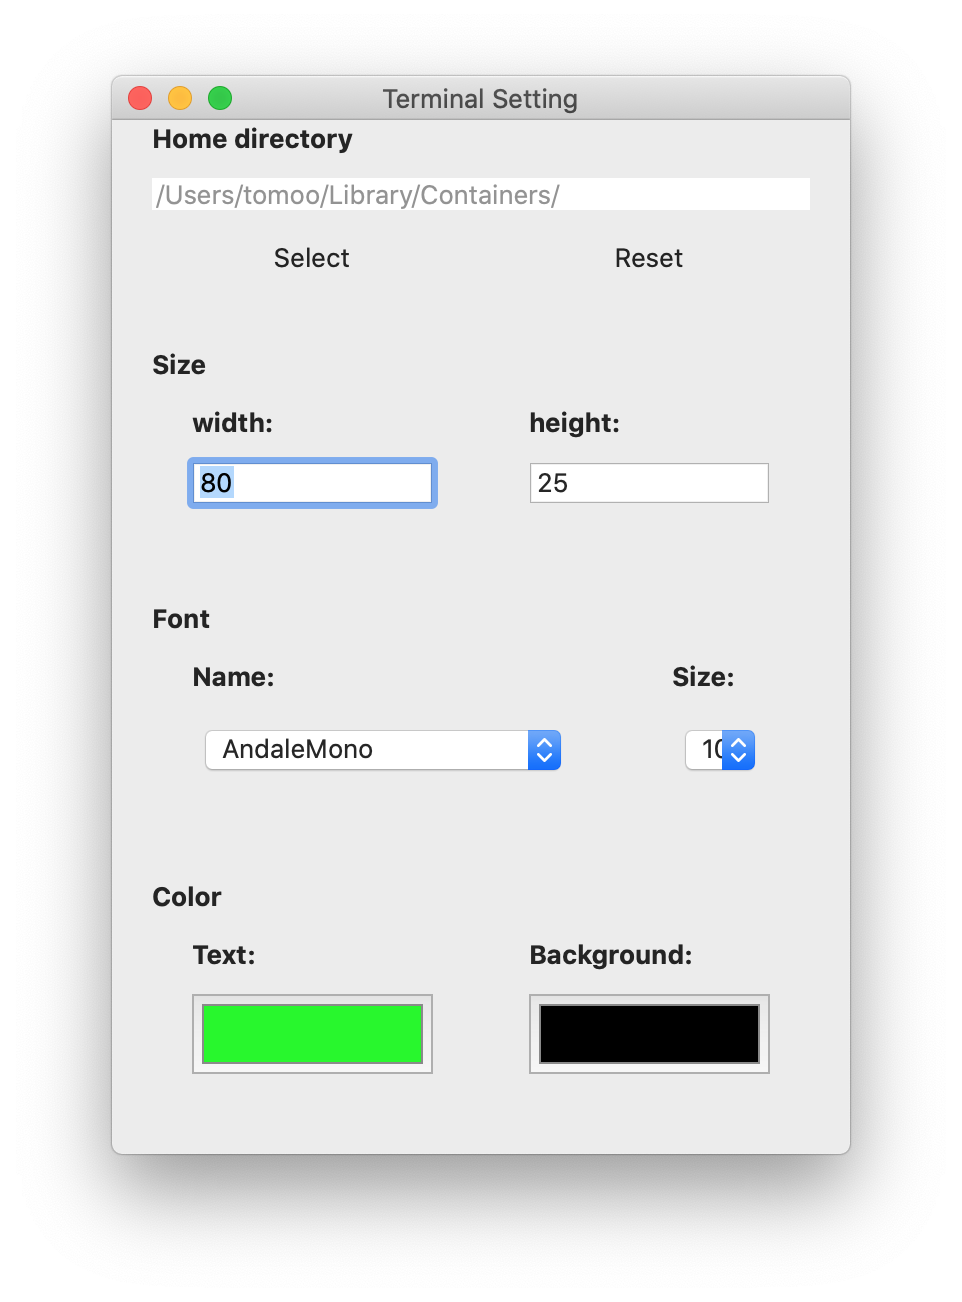
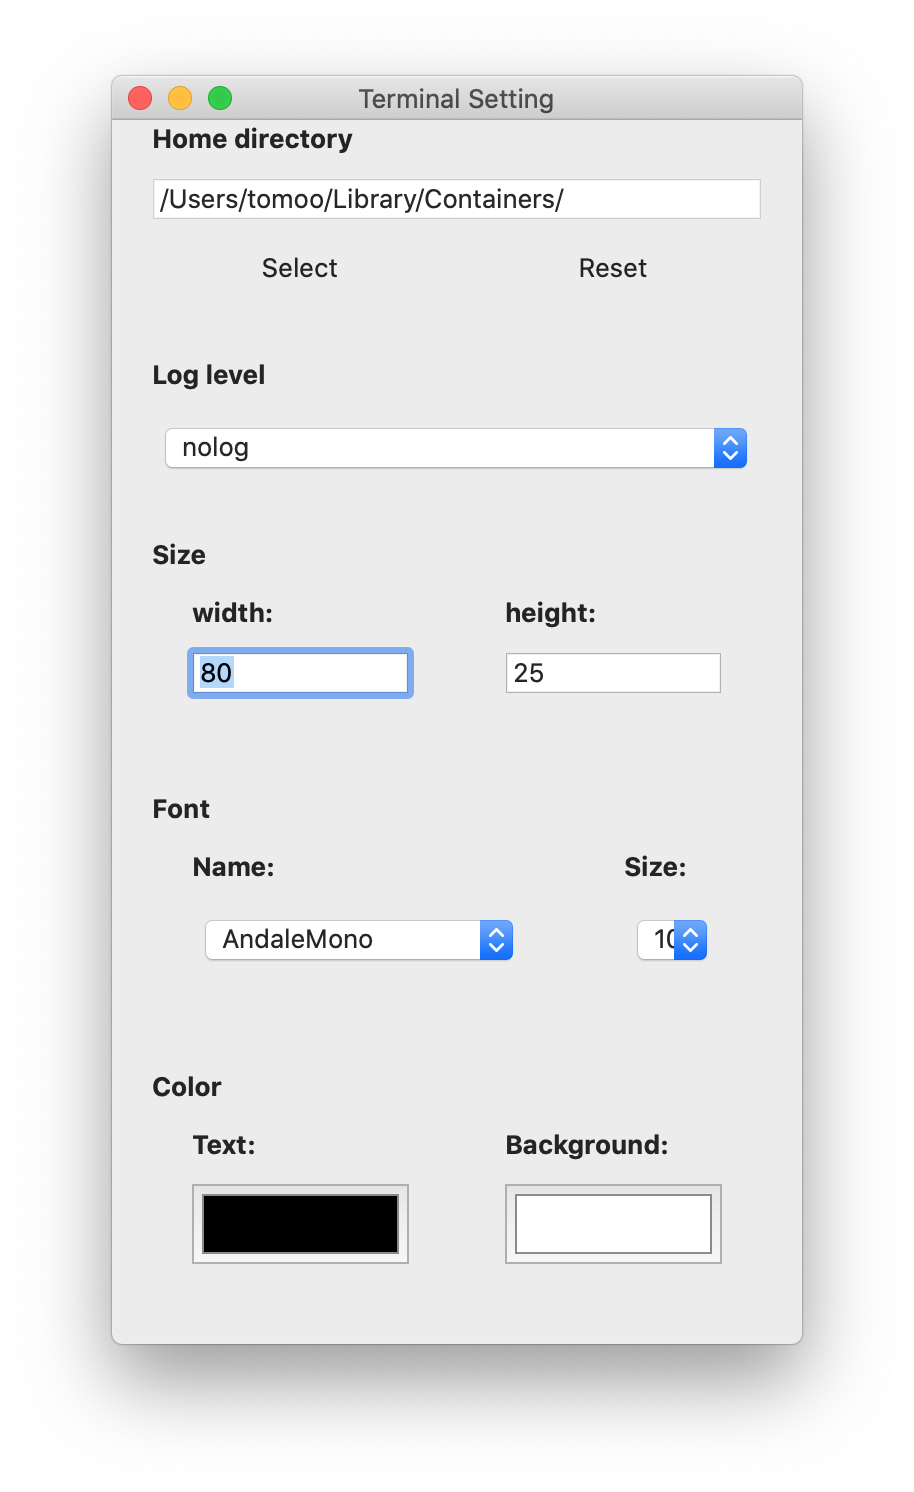
doc: Add screen shot of preference window

diff --git a/Source/AppDelegate.swift b/Source/AppDelegate.swift
@@ -36,7 +36,7 @@ class AppDelegate: KCApplicationDelegate
 import UIKit
 
 @UIApplicationMain
-class AppDelegate: CNApplicationDelegate
+class AppDelegate: KCApplicationDelegate
 {
 	func application(_ application: UIApplication, didFinishLaunchingWithOptions launchOptions: [UIApplication.LaunchOptionsKey: Any]?) -> Bool {
 		// Override point for customization after application launch.

diff --git a/Resource/Sample/loglevel.js b/Resource/Sample/loglevel.js
@@ -1,0 +1,7 @@
+
+function main(args)
+{
+	console.printf("Set logLevel to \"detail\"\n") ;
+	Preference.system.logLevel = LogLevel.detail ;
+}
+

diff --git a/Documents/UsersManual.md b/Documents/UsersManual.md
@@ -18,6 +18,8 @@ In the following section, this document describes:
 * [Licence](#License): The license information
 * [How to use](#How): Step by step examination of the introduction to use this software
 * [Programming](#Programming): Documents for programming
+* [Debugging](#Debugging): How to debug on this terminal.
+* [Misc](#Misc): Miscellaneous information such as desktop menu
 * [Bug and restrictions](#Bug): Known problems
 * [Related documents](#Related): Links for references
 
@@ -189,11 +191,16 @@ end tell
 ````
 There are more sample scripts in [sample AppleScript scripts](AppleScript.md).
 
-## How to program
-### Programming
+## Programming
 Please read [jsh language manual](https://github.com/steelwheels/JSTools/blob/master/Document/jsh-lang.md) to know how to describe the shell script by JavaScript.
 
-### Details
+## Debugging
+### Log Window
+![Log Window](./Images/log-window.png)
+The log window is used to output debug log of this application.
+The window is shown the the [Log level](https://github.com/steelwheels/KiwiScript/blob/master/KiwiLibrary/Document/Enum/LogLevel.md) is higher than `nolog`. You can change the log level at [preference window](https://github.com/steelwheels/JSTerminal/blob/master/Documents/Preference.md) or [Preference variable](https://github.com/steelwheels/KiwiScript/blob/master/KiwiLibrary/Document/Class/Preference.md).
+
+## Misc
 For more details (except shell script function), See the following documents.
 * [Desktop menu](https://github.com/steelwheels/JSTerminal/blob/master/Documents/DesktopMenu.md): The specification of the desktop menu
 
